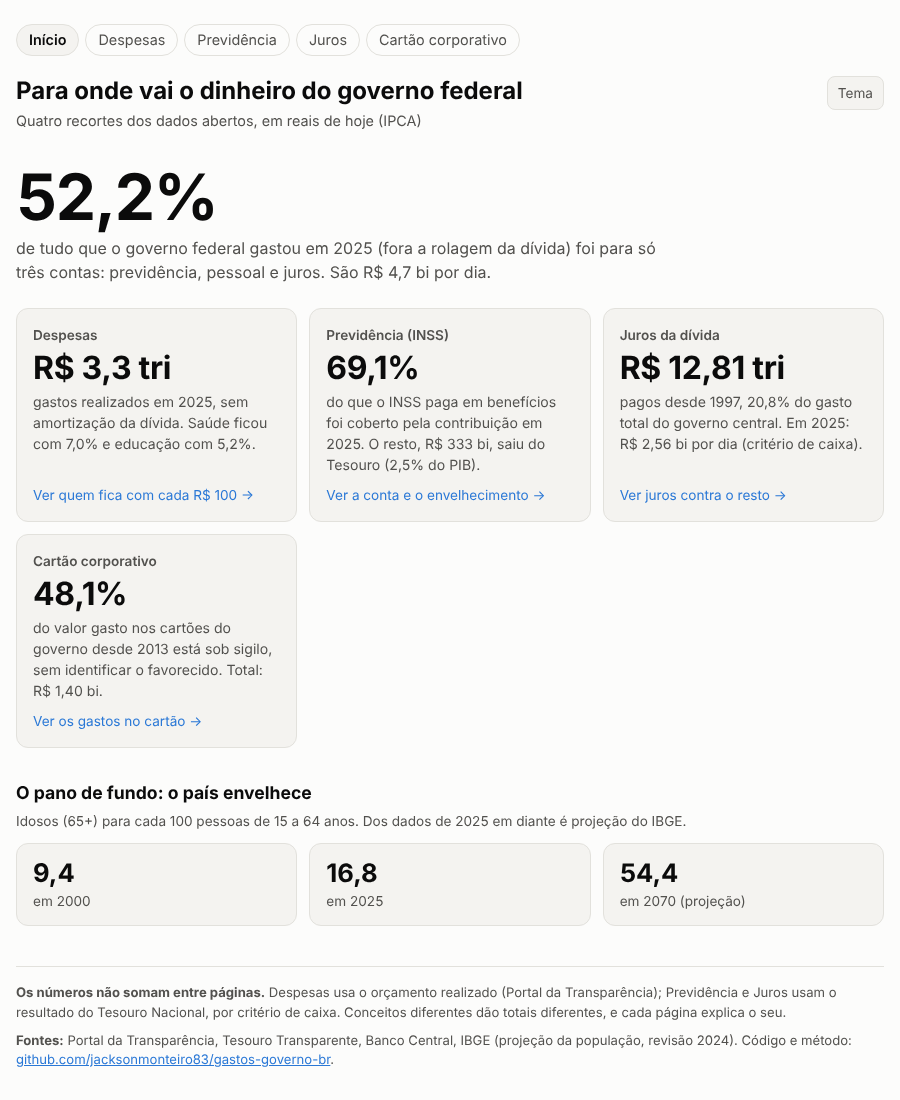
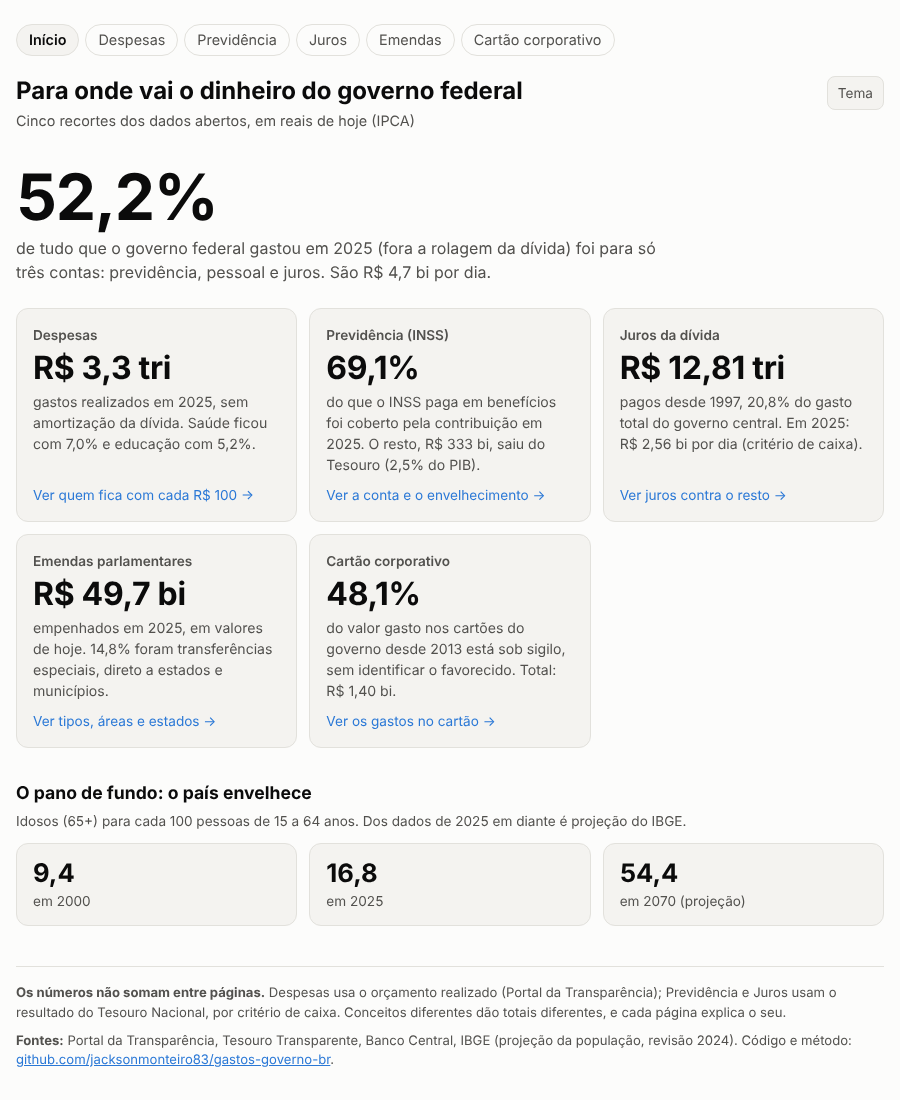
Página de emendas parlamentares, card no início e README
Claude-Session: https://claude.ai/code/session_01KiiusXRWrSgj2tX4znhx2G

diff --git a/docs/emendas.html b/docs/emendas.html
@@ -1,0 +1,186 @@
+<!DOCTYPE html>
+<html lang="pt-BR">
+<head>
+<meta charset="utf-8">
+<meta name="viewport" content="width=device-width, initial-scale=1">
+<title>Emendas parlamentares: quanto, de que tipo e para onde</title>
+<meta name="description" content="Emendas parlamentares ao orçamento federal desde 2014 por tipo (individual, bancada, comissão, relator), função e UF, corrigidas pelo IPCA.">
+<link rel="canonical" href="https://jacksonmonteiro83.github.io/gastos-governo-br/emendas.html">
+<meta property="og:type" content="website">
+<meta property="og:locale" content="pt_BR">
+<meta property="og:title" content="Emendas parlamentares: quanto, de que tipo e para onde">
+<meta property="og:description" content="Despesa realizada do governo federal por função, tipo de gasto e ministério, de 2014 até hoje, corrigida pelo IPCA.">
+<meta property="og:url" content="https://jacksonmonteiro83.github.io/gastos-governo-br/emendas.html">
+<meta property="og:image" content="https://jacksonmonteiro83.github.io/gastos-governo-br/img/og.png">
+<meta property="og:image:width" content="1200">
+<meta property="og:image:height" content="630">
+<meta name="twitter:card" content="summary_large_image">
+<link rel="stylesheet" href="estilo.css">
+</head>
+<body>
+<main>
+  <nav class="menu" aria-label="Seções">
+    <a href="index.html">Início</a>
+    <a href="despesas.html">Despesas</a>
+    <a href="previdencia.html">Previdência</a>
+    <a href="juros.html">Juros</a>
+    <a href="emendas.html" aria-current="page">Emendas</a>
+    <a href="cartao.html">Cartão corporativo</a>
+  </nav>
+  <header>
+    <div>
+      <h1>Emendas parlamentares</h1>
+      <p class="sub" id="sub"></p>
+    </div>
+    <button class="tema" id="tema" type="button" aria-label="Alternar tema claro e escuro">Tema</button>
+  </header>
+
+  <div id="vazio" class="aviso" hidden>
+    Os dados deste painel ainda não foram gerados. No GitHub, rode o workflow <b>Atualizar emendas</b> (aba Actions) e recarregue a página.
+  </div>
+
+  <div id="conteudo" hidden>
+    <div class="hero">
+      <div class="num" id="hero-num"></div>
+      <p class="leg" id="hero-leg"></p>
+    </div>
+    <div class="kpis" id="kpis"></div>
+
+    <section class="card">
+      <h2>Quanto, por tipo de emenda</h2>
+      <p class="nota" id="nota1"></p>
+      <ul class="legenda" id="leg1"></ul>
+      <div class="chart" id="c1"></div>
+      <details><summary>Ver dados em tabela</summary><div class="tabela" id="t1"></div></details>
+    </section>
+
+    <section class="card">
+      <h2>Para que áreas, em <span class="refano"></span></h2>
+      <p class="nota">Função de governo do gasto, R$ bilhões de hoje empenhados. Percentual sobre o total do ano.</p>
+      <div class="barras" id="b-funcao"></div>
+    </section>
+
+    <section class="card">
+      <h2>Para onde, em <span class="refano"></span></h2>
+      <p class="nota" id="nota-uf"></p>
+      <h3 class="sub-h">Por região</h3>
+      <div class="barras" id="b-regiao"></div>
+      <h3 class="sub-h">Dez maiores estados</h3>
+      <div class="barras" id="b-uf"></div>
+    </section>
+
+    <footer>
+      <p><b>Empenhado.</b> É o valor que o governo reservou para a emenda no ano; nem tudo vira pagamento. A taxa de execução soma o que foi pago no ano e o que foi pago depois, como resto a pagar, sobre o empenhado de cada ano de emenda. Os anos recentes ainda estão em execução, então a taxa deles sobe com o tempo. O ano corrente, se aparecer, é parcial.</p>
+      <p><b>Valores</b> em reais de hoje: nominal de cada ano corrigido pelo IPCA médio do ano da emenda.</p>
+      <p><b>Tipos.</b> Individuais são de cada parlamentar; nas <i>transferências especiais</i> o dinheiro vai direto ao estado ou município, sem convênio nem finalidade definida de antemão. Bancada e comissão têm autoria coletiva. O tipo e as datas seguem a classificação do Portal da Transparência; por isso valores de "relator" aparecem antes de 2020 como o Portal os classifica.</p>
+      <p><b>Localização.</b> Parte dos valores vem sem estado definido (nacional, múltiplo ou exterior) e não entra no ranking de estados nem de regiões. Os estados aparecem em valor absoluto, sem ajustar pela população.</p>
+      <p><b>Fonte:</b> <a href="https://portaldatransparencia.gov.br/download-de-dados/emendas-parlamentares">Portal da Transparência (CGU), Emendas Parlamentares</a>. Código e método: <a href="https://github.com/jacksonmonteiro83/gastos-governo-br">github.com/jacksonmonteiro83/gastos-governo-br</a>.</p>
+    </footer>
+  </div>
+</main>
+<div class="tip" id="tip"></div>
+
+<script src="emendas_data.js" onerror="void 0"></script>
+<script>
+(function () {
+  const D = window.EMD;
+  const raiz = document.documentElement;
+  document.getElementById("tema").addEventListener("click", () => {
+    const escuro = raiz.dataset.theme ? raiz.dataset.theme === "dark" : matchMedia("(prefers-color-scheme: dark)").matches;
+    raiz.dataset.theme = escuro ? "light" : "dark";
+  });
+  if (!D) { document.getElementById("vazio").hidden = false; return; }
+  document.getElementById("conteudo").hidden = false;
+
+  const fmt0 = new Intl.NumberFormat("pt-BR", { maximumFractionDigits: 0 });
+  const fmt1 = new Intl.NumberFormat("pt-BR", { minimumFractionDigits: 1, maximumFractionDigits: 1 });
+  const NS = "http://www.w3.org/2000/svg";
+  const el = (n, a, p) => { const e = document.createElementNS(NS, n); for (const k in a) e.setAttribute(k, a[k]); if (p) p.appendChild(e); return e; };
+  const H = D.destaques, ref = H.ano_referencia, anos = D.anos, iref = anos.indexOf(ref);
+  const nomes = Object.keys(D.tipos), cor = (k) => "var(--s" + (k + 1) + ")";
+  document.querySelectorAll(".refano").forEach(e => e.textContent = ref);
+  document.getElementById("sub").textContent = "Emendas ao orçamento federal, " + anos[0] + " a " + anos[anos.length - 1] +
+    (D.ano_corrente_parcial ? " (último ano parcial)" : "") + " · R$ de hoje (IPCA)";
+  document.getElementById("hero-num").textContent = "R$ " + fmt1.format(H.total_bi) + " bi";
+  document.getElementById("hero-leg").textContent = "foi o valor empenhado em emendas parlamentares em " + ref + ", em valores de hoje. São cerca de R$ " +
+    fmt0.format(H.total_bi * 1000 / 365) + " milhões por dia.";
+  const kpis = [];
+  if (H.especial_pct != null) kpis.push([fmt1.format(H.especial_pct) + "%", "foi transferência especial, dinheiro direto ao estado ou município"]);
+  if (H.executado_pct != null) kpis.push([fmt1.format(H.executado_pct) + "%", "do empenhado de " + ref + " já foi pago"]);
+  if (H.fora_de_uf_pct != null) kpis.push([fmt1.format(H.fora_de_uf_pct) + "%", "sem estado definido (nacional, múltiplo ou exterior)"]);
+  if (H.relator_pico_ano) kpis.push(["R$ " + fmt1.format(H.relator_pico_bi) + " bi", "em emendas de relator em " + H.relator_pico_ano + ", o ano de pico"]);
+  document.getElementById("kpis").innerHTML = kpis.map(([v, l]) => '<div class="kpi"><div class="v">' + v + '</div><div class="l">' + l + '</div></div>').join("");
+
+  // frase sobre o fim das emendas de relator, só se os dados mostram isso
+  const rel = D.tipos["Relator"], com = D.tipos["Comissão"];
+  let nota = "R$ bilhões de hoje empenhados por ano.";
+  if (rel && com) {
+    const ult = rel.map((v, i) => v > 0 ? i : -1).reduce((a, b) => Math.max(a, b), -1);
+    if (ult >= 0 && ult < iref) {
+      const soma = rel.slice(0, ult + 1).reduce((a, b) => a + b, 0);
+      nota += " As emendas de relator somaram R$ " + fmt1.format(soma) + " bi até " + anos[ult] + " e não aparecem nos dados depois disso. As de comissão foram de R$ " +
+        fmt1.format(com[ult]) + " bi em " + anos[ult] + " para R$ " + fmt1.format(com[iref]) + " bi em " + ref + ".";
+    }
+  }
+  document.getElementById("nota1").textContent = nota;
+  document.getElementById("leg1").innerHTML = nomes.map((n, k) => '<li><i style="background:' + cor(k) + '"></i>' + n + "</li>").join("");
+  document.getElementById("t1").innerHTML = "<table><thead><tr><th>Ano</th>" + nomes.map(n => "<th>" + n + "</th>").join("") +
+    "<th>Total</th><th>Pago (%)</th></tr></thead><tbody>" + anos.map((a, j) => "<tr><td>" + a + "</td>" +
+    nomes.map(n => "<td>" + fmt1.format(D.tipos[n][j]) + "</td>").join("") + "<td>" + fmt1.format(D.total_bi[j]) + "</td><td>" +
+    (D.executado_pct[j] == null ? "—" : fmt1.format(D.executado_pct[j])) + "</td></tr>").join("") + "</tbody></table>";
+
+  const lista = (id, itens) => {
+    const m = Math.max(...itens.map(x => x.bi));
+    document.getElementById(id).innerHTML = itens.map(x =>
+      '<div class="barra" title="' + x.nome.replace(/"/g, "&quot;") + '"><span class="n">' + x.nome +
+      '</span><span class="t"><i style="width:' + (100 * x.bi / m).toFixed(1) + '%"></i></span><span class="v">' +
+      fmt1.format(x.bi) + " (" + fmt1.format(x.pct) + "%)</span></div>").join("");
+  };
+  lista("b-funcao", D.ref_por_funcao); lista("b-regiao", D.ref_por_regiao); lista("b-uf", D.ref_por_uf);
+  document.getElementById("nota-uf").textContent = "R$ bilhões de hoje empenhados; percentual sobre o que tem estado definido. Em valor absoluto: estados mais populosos aparecem no topo.";
+
+  const tip = document.getElementById("tip");
+  function desenhar() {
+    const host = document.getElementById("c1"); host.querySelectorAll("svg").forEach(s => s.remove());
+    const W = Math.max(300, host.clientWidth), Ht = W < 520 ? 280 : 340, m = { l: 40, r: 12, t: 10, b: 24 };
+    const svg = el("svg", { viewBox: "0 0 " + W + " " + Ht, role: "img", "aria-label": "Colunas empilhadas por ano com as emendas parlamentares por tipo, em R$ bilhões." });
+    host.insertBefore(svg, host.firstChild);
+    const n = anos.length, mx = Math.max(...D.total_bi), passo = mx > 40 ? 10 : 5, max = Math.ceil(mx / passo) * passo;
+    const slot = (W - m.l - m.r) / n, bw = Math.max(6, slot * 0.7), xc = (i) => m.l + slot * i + slot / 2, y = (v) => Ht - m.b - (Ht - m.t - m.b) * v / max;
+    const g = el("g", { class: "eixo" }, svg);
+    for (let v = 0; v <= max + 1e-9; v += passo) {
+      el("line", { x1: m.l, x2: W - m.r, y1: y(v), y2: y(v), stroke: "var(--grid)", "stroke-width": 1 }, svg);
+      el("text", { x: m.l - 6, y: y(v) + 4, "text-anchor": "end" }, g).textContent = fmt0.format(v);
+    }
+    anos.forEach((a, i) => { if (n <= 8 || i % 2 === 0 || i === n - 1) el("text", { x: xc(i), y: Ht - m.b + 16, "text-anchor": "middle" }, g).textContent = a; });
+    anos.forEach((a, i) => {
+      let acc = 0;
+      nomes.forEach((nome, k) => {
+        const v = D.tipos[nome][i]; if (!v || v <= 0) return;
+        el("rect", { x: xc(i) - bw / 2, y: y(acc + v), width: bw, height: Math.max(0, y(acc) - y(acc + v)), fill: cor(k), stroke: "var(--surface)", "stroke-width": 2 }, svg);
+        acc += v;
+      });
+    });
+    const guia = el("rect", { y: m.t, height: Ht - m.t - m.b, width: slot, fill: "var(--text)", opacity: 0.06, visibility: "hidden" }, svg);
+    const alvo = el("rect", { x: m.l, y: m.t, width: W - m.l - m.r, height: Ht - m.t - m.b, fill: "transparent" }, svg);
+    alvo.addEventListener("pointermove", (ev) => {
+      const r = svg.getBoundingClientRect(), px = (ev.clientX - r.left) * W / r.width;
+      const i = Math.max(0, Math.min(n - 1, Math.floor((px - m.l) / slot)));
+      guia.setAttribute("x", xc(i) - slot / 2); guia.setAttribute("visibility", "visible");
+      tip.innerHTML = "<b>" + anos[i] + (D.ano_corrente_parcial && i === n - 1 ? " · parcial" : "") + " · R$ " + fmt1.format(D.total_bi[i]) + " bi</b>" +
+        nomes.map((nome, k) => [nome, k]).reverse().map(([nome, k]) => '<div><span><i style="background:' + cor(k) + '"></i>' + nome + '</span><span class="v">' + fmt1.format(D.tipos[nome][i]) + "</span></div>").join("") +
+        (D.executado_pct[i] == null ? "" : '<div><span>Pago até hoje</span><span class="v">' + fmt1.format(D.executado_pct[i]) + "%</span></div>");
+      tip.style.display = "block";
+      const hr = host.getBoundingClientRect(), t = tip.getBoundingClientRect();
+      let left = xc(i) * r.width / W + hr.left + window.scrollX + 14;
+      if (left + t.width > window.scrollX + document.documentElement.clientWidth - 8) left -= t.width + 28;
+      tip.style.left = Math.max(8, left) + "px"; tip.style.top = Math.max(8, ev.clientY + window.scrollY - t.height / 2) + "px";
+    });
+    alvo.addEventListener("pointerleave", () => { guia.setAttribute("visibility", "hidden"); tip.style.display = "none"; });
+  }
+  desenhar();
+  let t; window.addEventListener("resize", () => { clearTimeout(t); t = setTimeout(desenhar, 120); });
+})();
+</script>
+</body>
+</html>

diff --git a/docs/index.html b/docs/index.html
@@ -24,12 +24,13 @@
     <a href="despesas.html">Despesas</a>
     <a href="previdencia.html">Previdência</a>
     <a href="juros.html">Juros</a>
+    <a href="emendas.html">Emendas</a>
     <a href="cartao.html">Cartão corporativo</a>
   </nav>
   <header>
     <div>
       <h1>Para onde vai o dinheiro do governo federal</h1>
-      <p class="sub">Quatro recortes dos dados abertos, em reais de hoje (IPCA)</p>
+      <p class="sub">Cinco recortes dos dados abertos, em reais de hoje (IPCA)</p>
     </div>
     <button class="tema" id="tema" type="button" aria-label="Alternar tema claro e escuro">Tema</button>
   </header>
@@ -48,8 +49,8 @@
   </section>
 
   <footer>
-    <p><b>Os números não somam entre páginas.</b> Despesas usa o orçamento realizado (Portal da Transparência); Previdência e Juros usam o resultado do Tesouro Nacional, por critério de caixa. Conceitos diferentes dão totais diferentes, e cada página explica o seu.</p>
-    <p><b>Fontes:</b> Portal da Transparência, Tesouro Transparente, Banco Central, IBGE (projeção da população, revisão 2024). Código e método: <a href="https://github.com/jacksonmonteiro83/gastos-governo-br">github.com/jacksonmonteiro83/gastos-governo-br</a>.</p>
+    <p><b>Os números não somam entre páginas.</b> Despesas usa o orçamento realizado (Portal da Transparência); Previdência e Juros usam o resultado do Tesouro Nacional, por critério de caixa. Emendas usa o valor empenhado (Portal da Transparência). Conceitos diferentes dão totais diferentes, e cada página explica o seu.</p>
+    <p><b>Fontes:</b> Portal da Transparência (despesas, emendas, cartão), Tesouro Transparente, Banco Central, IBGE (projeção da população, revisão 2024). Código e método: <a href="https://github.com/jacksonmonteiro83/gastos-governo-br">github.com/jacksonmonteiro83/gastos-governo-br</a>.</p>
   </footer>
 </main>
 
@@ -57,6 +58,7 @@
 <script src="despesas_data.js"></script>
 <script src="previdencia_data.js"></script>
 <script src="cpgf_data.js"></script>
+<script src="emendas_data.js" onerror="void 0"></script>
 <script src="demografia_data.js"></script>
 <script>
 (function () {
@@ -86,6 +88,9 @@
   if (J) porta("juros.html", "Juros da dívida", "R$ " + f2.format(J.juros_total_tri) + " tri",
     "pagos desde 1997, " + f1.format(J.juros_pct_gasto_total) + "% do gasto total do governo central. Em " + J.ano_referencia +
     ": R$ " + f2.format(J.juros_por_dia_bi) + " bi por dia (critério de caixa).", "Ver juros contra o resto");
+  const E = window.EMD && window.EMD.destaques;
+  if (E) porta("emendas.html", "Emendas parlamentares", "R$ " + f1.format(E.total_bi) + " bi",
+    "empenhados em " + E.ano_referencia + ", em valores de hoje. " + f1.format(E.especial_pct) + "% foram transferências especiais, direto a estados e municípios.", "Ver tipos, áreas e estados");
   const C = window.CPGF && window.CPGF.destaques;
   if (C) porta("cartao.html", "Cartão corporativo", f1.format(C.sigilo_pct) + "%",
     "do valor gasto nos cartões do governo desde 2013 está sob sigilo, sem identificar o favorecido. Total: R$ " +

diff --git a/docs/cartao.html b/docs/cartao.html
@@ -24,6 +24,7 @@
     <a href="despesas.html">Despesas</a>
     <a href="previdencia.html">Previdência</a>
     <a href="juros.html">Juros</a>
+    <a href="emendas.html">Emendas</a>
     <a href="cartao.html" aria-current="page">Cartão corporativo</a>
   </nav>
   <header>

diff --git a/docs/despesas.html b/docs/despesas.html
@@ -24,6 +24,7 @@
     <a href="despesas.html" aria-current="page">Despesas</a>
     <a href="previdencia.html">Previdência</a>
     <a href="juros.html">Juros</a>
+    <a href="emendas.html">Emendas</a>
     <a href="cartao.html">Cartão corporativo</a>
   </nav>
   <header>

diff --git a/docs/juros.html b/docs/juros.html
@@ -24,6 +24,7 @@
     <a href="despesas.html">Despesas</a>
     <a href="previdencia.html">Previdência</a>
     <a href="juros.html" aria-current="page">Juros</a>
+    <a href="emendas.html">Emendas</a>
     <a href="cartao.html">Cartão corporativo</a>
   </nav>
   <header>

diff --git a/docs/previdencia.html b/docs/previdencia.html
@@ -24,6 +24,7 @@
     <a href="despesas.html">Despesas</a>
     <a href="previdencia.html" aria-current="page">Previdência</a>
     <a href="juros.html">Juros</a>
+    <a href="emendas.html">Emendas</a>
     <a href="cartao.html">Cartão corporativo</a>
   </nav>
   <header>

diff --git a/README.md b/README.md
@@ -4,15 +4,16 @@ Para onde vai o dinheiro do governo federal, em valores reais (corrigidos pelo I
 
 **Site:** https://jacksonmonteiro83.github.io/gastos-governo-br/
 
-| Início | Despesas | Previdência (INSS) | Juros | Cartão corporativo |
-| --- | --- | --- | --- | --- |
-| [![Início](docs/img/index.png)](https://jacksonmonteiro83.github.io/gastos-governo-br/) | [![Despesas](docs/img/despesas.png)](https://jacksonmonteiro83.github.io/gastos-governo-br/despesas.html) | [![Previdência](docs/img/previdencia.png)](https://jacksonmonteiro83.github.io/gastos-governo-br/previdencia.html) | [![Juros](docs/img/juros.png)](https://jacksonmonteiro83.github.io/gastos-governo-br/juros.html) | [![Cartão](docs/img/cartao.png)](https://jacksonmonteiro83.github.io/gastos-governo-br/cartao.html) |
+| Início | Despesas | Previdência (INSS) | Juros | Emendas | Cartão corporativo |
+| --- | --- | --- | --- | --- | --- |
+| [![Início](docs/img/index.png)](https://jacksonmonteiro83.github.io/gastos-governo-br/) | [![Despesas](docs/img/despesas.png)](https://jacksonmonteiro83.github.io/gastos-governo-br/despesas.html) | [![Previdência](docs/img/previdencia.png)](https://jacksonmonteiro83.github.io/gastos-governo-br/previdencia.html) | [![Juros](docs/img/juros.png)](https://jacksonmonteiro83.github.io/gastos-governo-br/juros.html) | [![Emendas](docs/img/emendas.png)](https://jacksonmonteiro83.github.io/gastos-governo-br/emendas.html) | [![Cartão](docs/img/cartao.png)](https://jacksonmonteiro83.github.io/gastos-governo-br/cartao.html) |
 
 ## O que os dados mostram
 - **Juros:** R$ 12,81 tri pagos em juros da dívida desde 1997, em valores de hoje, 20,8% de tudo que o governo central gastou. Só em 2025, R$ 933 bi (R$ 2,56 bi por dia), 10,7× o investimento federal.
 - **Despesas por função (2025, sem rolagem da dívida):** R$ 3,27 tri em valores de hoje. A previdência social é a maior função, com 32,8%; juros e encargos da dívida, 11,7%; saúde, 7,0%; educação, 5,2%. A rolagem da dívida (amortização e refinanciamento) foi mais R$ 1,87 tri, fora dessas contas. Sem sobreposição, previdência, pessoal e juros somam 52,2% do gasto realizado (R$ 1,71 tri, cerca de R$ 4,7 bi por dia); saúde, educação e assistência ficam com 18,9%, e investimentos com 1,0% (subestimado, ver método).
 - **Previdência (INSS/RGPS):** em 2025 a arrecadação líquida cobriu 69,1% dos benefícios; o Tesouro pagou a diferença, R$ 333 bi (2,5% do PIB). Em 1997 a cobertura era de 94%. Desde 2010, já descontada a inflação, os benefícios cresceram 72% e a arrecadação, 43%. A diferença chegou a 3,4% do PIB em 2020 e desde então recuou.
 - **Envelhecimento:** a página de Previdência cruza a conta com a projeção de população do IBGE (revisão 2024): idosos de 65+ para cada 100 pessoas de 15 a 64 anos, de 2000 a 2070.
+- **Emendas parlamentares:** R$ 49,7 bi empenhados em 2025, em valores de hoje. As transferências especiais (direto a estados e municípios) são 14,8%; as emendas de relator somaram R$ 93,3 bi até 2022 e não aparecem nos dados depois disso, enquanto as de comissão saíram de R$ 0,4 bi (2022) para R$ 11,9 bi (2025). 25,9% do valor de 2025 vem sem estado definido.
 - **Cartão corporativo (jan/2013 a out/2026):** R$ 1,40 bi gastos, em valores de hoje. 48,1% do total está sob sigilo, sem data nem favorecido divulgados (41,4% em 2025). Os saques em espécie são 10,1% do total.
 
 ## Stack
@@ -28,6 +29,7 @@ Para onde vai o dinheiro do governo federal, em valores reais (corrigidos pelo I
 | Tesouro Transparente | Resultado do Tesouro Nacional (RTN, desde 1997): juros, previdência, despesas, em valores correntes e em R$ constantes (IPCA) | implementado (`pipeline/tesouro.py`) |
 | Banco Central (SGS) | IPCA (433), Selic mensal (4390), PIB 12m (4382); juros nominais 4606/4607 para conferência | implementado (`pipeline/bcb.py`, `pipeline/validar_juros.py`) |
 | IBGE | Projeções da População, revisão 2024 (2000 a 2070) | implementado (`pipeline/agregar_demografia.py`) |
+| Portal da Transparência (CGU) | Emendas parlamentares, arquivo único desde 2014 (só o arquivo principal; sem favorecidos) | implementado (`pipeline/emendas.py`, `pipeline/agregar_emendas.py`) |
 | Portal da Transparência | Cartão corporativo (CPGF), mensal | implementado (`pipeline/cpgf.py`, `pipeline/agregar_cpgf.py`) |
 | Portal da Transparência | Orçamento da despesa por ano (órgão, função, grupo de despesa; orçado, empenhado e realizado), sem favorecidos | implementado (`pipeline/transparencia.py`, `pipeline/agregar_despesas.py`) |
 
@@ -36,7 +38,7 @@ Para onde vai o dinheiro do governo federal, em valores reais (corrigidos pelo I
 pipeline/     ingestão e agregação (gera Parquet em data/raw e os .js dos painéis)
 dbt/          modelos SQL (staging, marts), testes de dados (schema.yml e tests/) e macro de leitura de Parquet
 tests/        testes Python (pytest)
-docs/         site estático: index (início), despesas, previdencia, juros, cartao + dados gerados (*_data.js) + img/
+docs/         site estático: index (início), despesas, previdencia, juros, emendas, cartao + dados gerados (*_data.js) + img/
 .github/      workflows: atualização diária, CPGF, validação dos juros, inspeções
 ```
 
